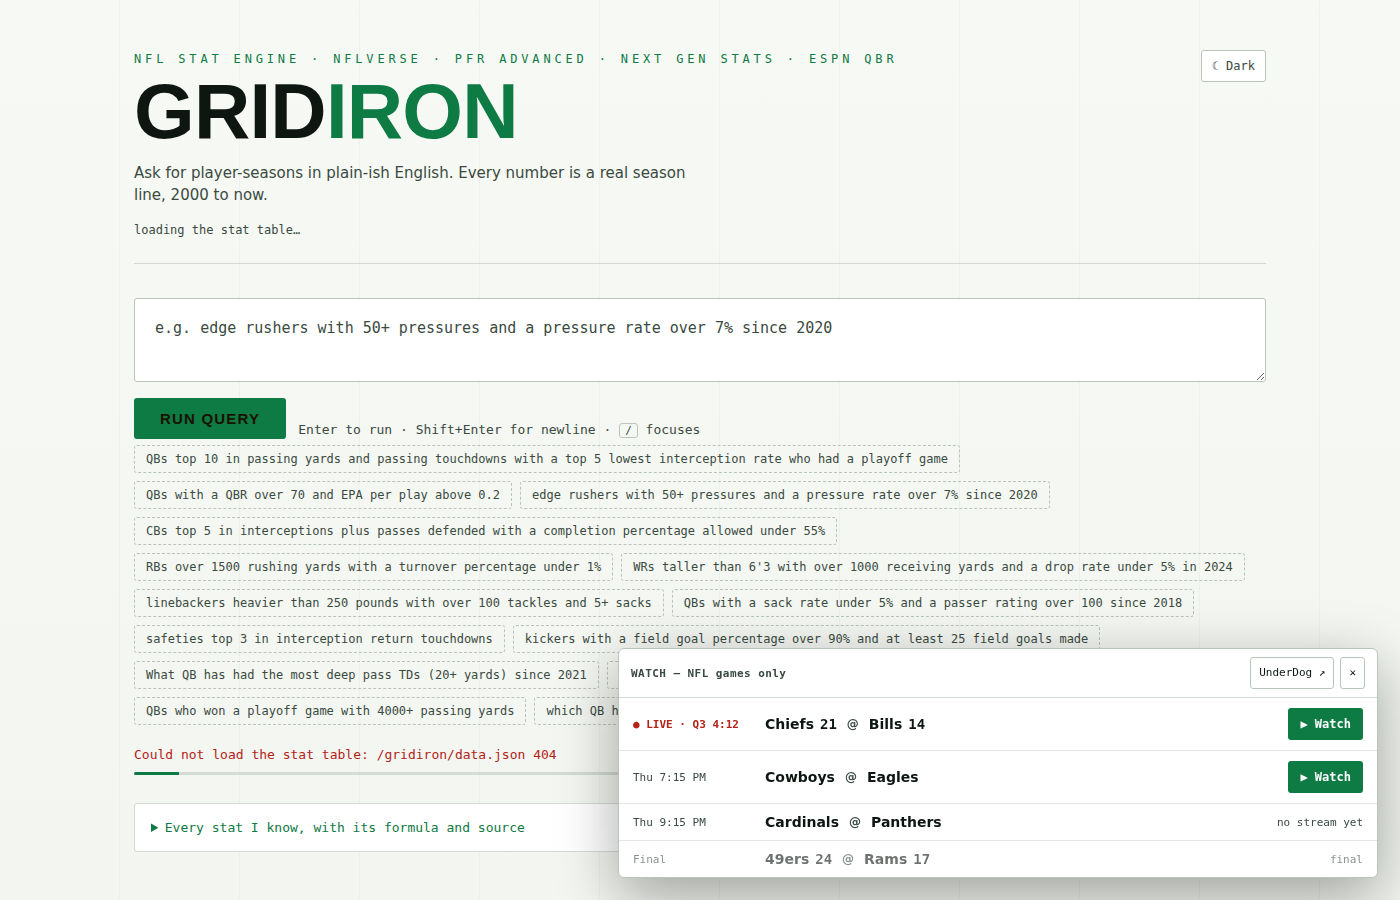
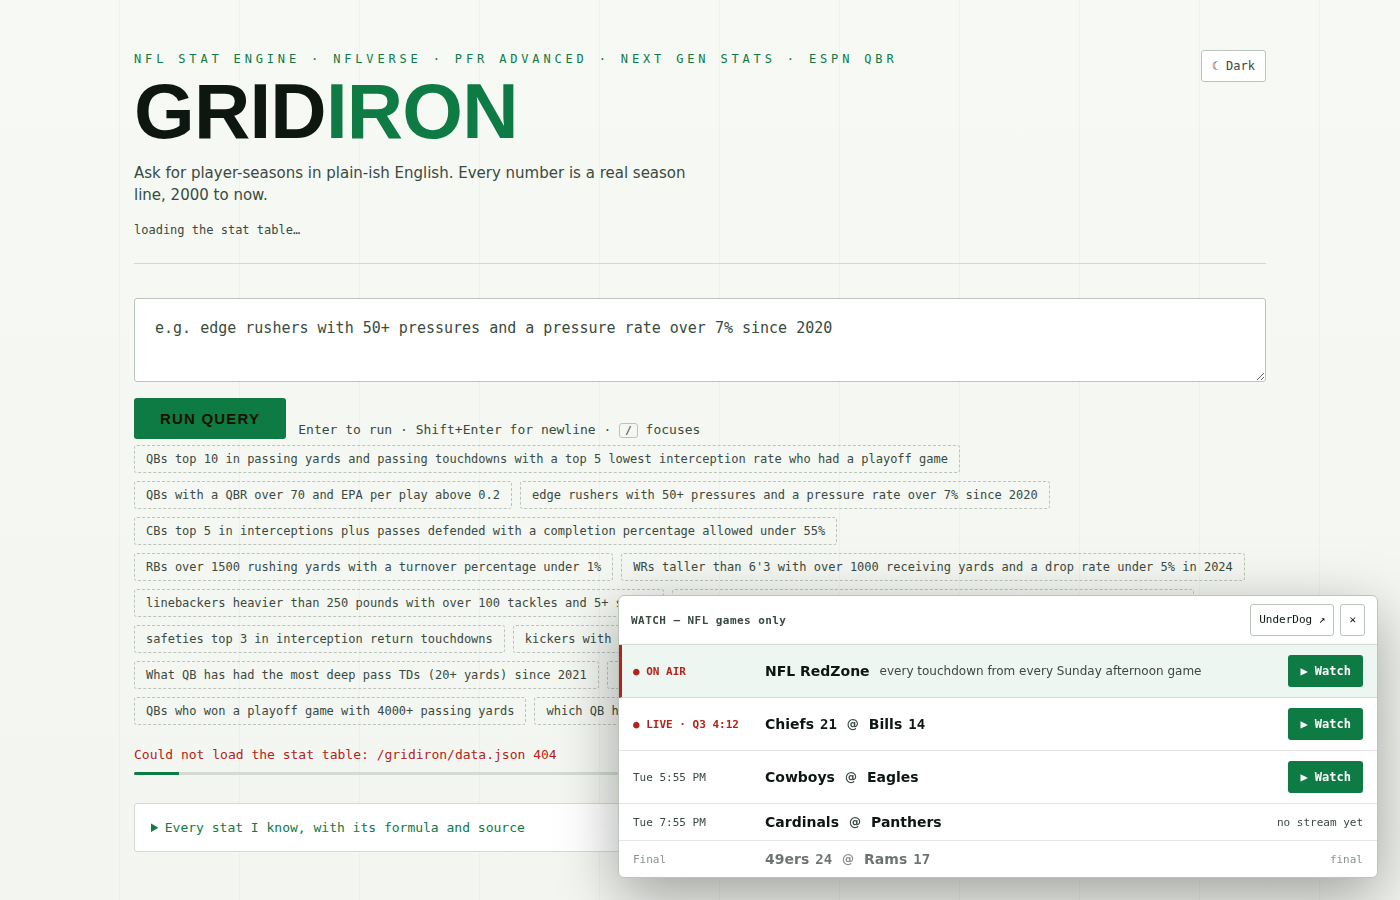
Gridiron g23: NFL RedZone in the Watch panel
RedZone is a channel, not a game, so the strict two-team matcher never
let it in. It now has its own row pinned at the top of the list, found by
name in streamed.pk's american-football and all-today lists (a college
"RedZone" is rejected). When it isn't listed, the row reads "off air".

Claude-Session: https://claude.ai/code/session_01GcsqDAHhecBud7CzfvP2gX

Changed region(s): [[0.43, 0.6533, 1.0, 0.7778], [0.4914, 0.7467, 0.5529, 0.7778]]

diff --git a/static/index.html b/static/index.html
@@ -513,6 +513,9 @@
     .wg-when { font-family: 'IBM Plex Mono', monospace; font-size: 11px; color: var(--chalk-dim) }
     .wg-in .wg-when { color: var(--danger); font-weight: 600 }
     .wg-post { opacity: .6 }
+    .wg-rz { border-left: 3px solid var(--danger); padding-left: 11px; background: var(--hover) }
+    .wg-rz .wg-when { color: var(--danger); font-weight: 600 }
+    .wg-sub { font-size: 12px; font-weight: 500; color: var(--chalk-dim) }
     .wg-teams { display: flex; align-items: center; flex-wrap: wrap; gap: 6px 10px; min-width: 0; font-size: 14px; font-weight: 600 }
     .wg-team { display: inline-flex; align-items: center; gap: 6px; white-space: nowrap }
     .wg-team img { width: 24px; height: 24px; object-fit: contain }
@@ -860,13 +863,13 @@
     <iframe id="dinoFrame" title="Dino Bowl"></iframe>
   </div>
 
-  <script src="/gridiron/engine.js?v=g22"></script>
+  <script src="/gridiron/engine.js?v=g23"></script>
   <script>
-    const DATA_URL = '/gridiron/data.json?v=g22';
+    const DATA_URL = '/gridiron/data.json?v=g23';
     // Per-game lines are a second, bigger table. It is fetched the first time a
     // question actually asks about a game, so the ordinary visitor never pays
     // for it.
-    const GAMES_URL = '/gridiron/games.json?v=g22';
+    const GAMES_URL = '/gridiron/games.json?v=g23';
     const EXAMPLES = [
       "QBs top 10 in passing yards and passing touchdowns with a top 5 lowest interception rate who had a playoff game",
       "QBs with a QBR over 70 and EPA per play above 0.2",
@@ -1628,12 +1631,13 @@
     // uses) is attached to a game only when its two sides ARE that game's two
     // teams ("Arizona Cardinals", "Cardinals", "ARI" — not "Louisville
     // Cardinals") and it starts within half a day of kickoff, so college games
-    // and shows never match.
+    // and shows never match. NFL RedZone is the one channel let in: it is not a
+    // game, so it gets its own row, pinned on top, matched by name.
     const STREAM_API = 'https://streamed.pk/api';
     const NFL_SCOREBOARD = 'https://site.api.espn.com/apis/site/v2/sports/football/nfl/scoreboard';
     const watchPanel = $('watchPanel'), watchList = $('watchList'), watchPlayer = $('watchPlayer'), watchFrame = $('watchFrame'),
       watchSources = $('watchSources'), watchTitle = $('watchTitle'), watchFull = $('watchFull'), watchBack = $('watchBack'), watchMsg = $('watchMsg');
-    const W = { games: [], loadedAt: 0, error: null, timer: 0, game: null, src: -1, streams: [], feed: -1, token: 0, realFs: false };
+    const W = { games: [], redzone: { id: 'redzone', title: 'NFL RedZone', sources: [] }, loadedAt: 0, error: null, timer: 0, game: null, src: -1, streams: [], feed: -1, token: 0, realFs: false };
     // UnderDog's rule: on phones the player is sandboxed, which stops the embeds' pop-up ads
     if (matchMedia('(pointer: coarse)').matches || /iPhone|iPad|iPod|Android/i.test(navigator.userAgent)) watchFrame.setAttribute('sandbox', 'allow-scripts allow-same-origin allow-presentation');
     function syncDock() { dinoDock.classList.toggle('hidden', dinoPanel.classList.contains('open') || !watchPanel.hidden); }
@@ -1666,30 +1670,48 @@
         return { id: ev.id, kick, state: ev.status.type.state, detail: ev.status.type.shortDetail || '', home: side(home), away: side(away), sources };
       });
     }
+    // NFL RedZone, from whichever list carries it today; never a college "red zone" show
+    function findRedZone(lists) {
+      const sources = [];
+      for (const list of lists) for (const m of Array.isArray(list) ? list : []) {
+        const t = String(m && m.title || '');
+        if (!/red\s*-?zone/i.test(t) || /\b(ncaa|ncaaf|college|cfb)\b/i.test(t)) continue;
+        for (const s of m.sources || []) if (s && s.source && s.id && !sources.some(x => x.source === s.source && x.id === s.id)) sources.push(s);
+      }
+      return { id: 'redzone', title: 'NFL RedZone', sources };
+    }
     async function loadSlate(force) {
       if (!force && W.games.length && Date.now() - W.loadedAt < 60e3) return renderSlate();
       if (!W.games.length) watchList.innerHTML = '<p class="watch-msg">Finding this week’s NFL games…</p>';
       try {
-        const [board, matches] = await Promise.all([
+        const list = (path) => fetch(STREAM_API + path, { cache: 'no-store' }).then(r => r.ok ? r.json() : []).catch(() => []);
+        const [board, matches, today] = await Promise.all([
           fetch(NFL_SCOREBOARD, { cache: 'no-store' }).then(r => { if (!r.ok) throw new Error('scoreboard ' + r.status); return r.json(); }),
-          fetch(STREAM_API + '/matches/american-football', { cache: 'no-store' }).then(r => r.ok ? r.json() : []).catch(() => [])
+          list('/matches/american-football'), list('/matches/all-today')
         ]);
         W.games = pairStreams(board.events || [], Array.isArray(matches) ? matches : []);
+        W.redzone = findRedZone([matches, today]);
         W.loadedAt = Date.now(); W.error = null;
       } catch (e) { W.error = e; }
       renderSlate();
     }
     const STATE_ORDER = { in: 0, pre: 1, post: 2 };
+    function redZoneRow() {
+      const rz = W.redzone, on = rz.sources.length > 0;
+      return `<div class="wg wg-rz"><span class="wg-when">${on ? '● ON AIR' : 'Sundays · 1–8 PM ET'}</span>`
+        + '<span class="wg-teams"><span class="wg-team">NFL RedZone</span><span class="wg-sub">every touchdown from every Sunday afternoon game</span></span>'
+        + (on ? '<button type="button" data-watch="redzone">▶ Watch</button>' : '<span class="wg-none">off air</span>') + '</div>';
+    }
     function renderSlate() {
       if (!W.games.length) {
-        watchList.innerHTML = W.error
+        watchList.innerHTML = (W.redzone.sources.length ? redZoneRow() : '') + (W.error
           ? '<p class="watch-msg">Couldn’t reach the NFL scoreboard just now. <button type="button" data-retry>Try again</button> or watch on <a href="https://underdog-nfl-media.web.app/" target="_blank" rel="noopener">UnderDog Live ↗</a></p>'
-          : '<p class="watch-msg">No NFL games on the board this week.</p>';
+          : '<p class="watch-msg">No NFL games on the board this week.</p>');
         return;
       }
       const games = W.games.slice().sort((a, b) => (STATE_ORDER[a.state] ?? 1) - (STATE_ORDER[b.state] ?? 1) || a.kick - b.kick);
       const team = (t, score) => `<span class="wg-team" title="${esc(t.name)}">${t.logo ? `<img src="${esc(t.logo)}" alt="" loading="lazy">` : ''}${esc(t.short)}${score ? ` <b>${esc(t.score)}</b>` : ''}</span>`;
-      watchList.innerHTML = games.map(g => {
+      watchList.innerHTML = redZoneRow() + games.map(g => {
         const when = g.state === 'in' ? '● LIVE · ' + g.detail : g.state === 'post' ? g.detail || 'Final'
           : new Date(g.kick).toLocaleString([], { weekday: 'short', hour: 'numeric', minute: '2-digit' });
         const act = g.sources.length ? `<button type="button" data-watch="${esc(g.id)}">▶ Watch</button>` : `<span class="wg-none">${g.state === 'post' ? 'final' : 'no stream yet'}</span>`;
@@ -1724,10 +1746,10 @@
       const token = ++W.token;
       W.game = g; W.src = -1; W.streams = []; W.feed = -1;
       watchList.hidden = true; watchPlayer.hidden = false; watchBack.hidden = false; watchFull.hidden = false;
-      watchTitle.textContent = `${g.away.short} @ ${g.home.short}` + (g.state === 'in' ? ' · LIVE' : '');
+      watchTitle.textContent = g.title || `${g.away.short} @ ${g.home.short}` + (g.state === 'in' ? ' · LIVE' : '');
       screenMessage('Loading the stream…');
       for (let i = 0; i < g.sources.length; i++) { if (await trySource(i, token)) return; if (token !== W.token) return; }
-      if (token === W.token) screenMessage('Every stream for this game is offline right now. Try again closer to kickoff, or on UnderDog Live ↗');
+      if (token === W.token) screenMessage(g.id === 'redzone' ? 'RedZone is off air right now. It runs on Sunday afternoons, 1–8 PM ET.' : 'Every stream for this game is offline right now. Try again closer to kickoff, or on UnderDog Live ↗');
     }
     function showList() {
       W.token++; W.game = null; W.streams = []; exitFull();
@@ -1773,7 +1795,7 @@
     watchList.addEventListener('click', (e) => {
       const b = e.target.closest('button'); if (!b) return;
       if (b.hasAttribute('data-retry')) return loadSlate(true);
-      const g = W.games.find(x => x.id === b.dataset.watch); if (g) playGame(g);
+      const g = b.dataset.watch === 'redzone' ? W.redzone : W.games.find(x => x.id === b.dataset.watch); if (g) playGame(g);
     });
     watchSources.addEventListener('click', async (e) => {
       const b = e.target.closest('button'); if (!b) return;

diff --git a/build_gridiron_page.py b/build_gridiron_page.py
@@ -901,12 +901,13 @@ BODY = r"""
     // uses) is attached to a game only when its two sides ARE that game's two
     // teams ("Arizona Cardinals", "Cardinals", "ARI" — not "Louisville
     // Cardinals") and it starts within half a day of kickoff, so college games
-    // and shows never match.
+    // and shows never match. NFL RedZone is the one channel let in: it is not a
+    // game, so it gets its own row, pinned on top, matched by name.
     const STREAM_API = 'https://streamed.pk/api';
     const NFL_SCOREBOARD = 'https://site.api.espn.com/apis/site/v2/sports/football/nfl/scoreboard';
     const watchPanel = $('watchPanel'), watchList = $('watchList'), watchPlayer = $('watchPlayer'), watchFrame = $('watchFrame'),
       watchSources = $('watchSources'), watchTitle = $('watchTitle'), watchFull = $('watchFull'), watchBack = $('watchBack'), watchMsg = $('watchMsg');
-    const W = { games: [], loadedAt: 0, error: null, timer: 0, game: null, src: -1, streams: [], feed: -1, token: 0, realFs: false };
+    const W = { games: [], redzone: { id: 'redzone', title: 'NFL RedZone', sources: [] }, loadedAt: 0, error: null, timer: 0, game: null, src: -1, streams: [], feed: -1, token: 0, realFs: false };
     // UnderDog's rule: on phones the player is sandboxed, which stops the embeds' pop-up ads
     if (matchMedia('(pointer: coarse)').matches || /iPhone|iPad|iPod|Android/i.test(navigator.userAgent)) watchFrame.setAttribute('sandbox', 'allow-scripts allow-same-origin allow-presentation');
     function syncDock() { dinoDock.classList.toggle('hidden', dinoPanel.classList.contains('open') || !watchPanel.hidden); }
@@ -939,30 +940,48 @@ BODY = r"""
         return { id: ev.id, kick, state: ev.status.type.state, detail: ev.status.type.shortDetail || '', home: side(home), away: side(away), sources };
       });
     }
+    // NFL RedZone, from whichever list carries it today; never a college "red zone" show
+    function findRedZone(lists) {
+      const sources = [];
+      for (const list of lists) for (const m of Array.isArray(list) ? list : []) {
+        const t = String(m && m.title || '');
+        if (!/red\s*-?zone/i.test(t) || /\b(ncaa|ncaaf|college|cfb)\b/i.test(t)) continue;
+        for (const s of m.sources || []) if (s && s.source && s.id && !sources.some(x => x.source === s.source && x.id === s.id)) sources.push(s);
+      }
+      return { id: 'redzone', title: 'NFL RedZone', sources };
+    }
     async function loadSlate(force) {
       if (!force && W.games.length && Date.now() - W.loadedAt < 60e3) return renderSlate();
       if (!W.games.length) watchList.innerHTML = '<p class="watch-msg">Finding this week’s NFL games…</p>';
       try {
-        const [board, matches] = await Promise.all([
+        const list = (path) => fetch(STREAM_API + path, { cache: 'no-store' }).then(r => r.ok ? r.json() : []).catch(() => []);
+        const [board, matches, today] = await Promise.all([
           fetch(NFL_SCOREBOARD, { cache: 'no-store' }).then(r => { if (!r.ok) throw new Error('scoreboard ' + r.status); return r.json(); }),
-          fetch(STREAM_API + '/matches/american-football', { cache: 'no-store' }).then(r => r.ok ? r.json() : []).catch(() => [])
+          list('/matches/american-football'), list('/matches/all-today')
         ]);
         W.games = pairStreams(board.events || [], Array.isArray(matches) ? matches : []);
+        W.redzone = findRedZone([matches, today]);
         W.loadedAt = Date.now(); W.error = null;
       } catch (e) { W.error = e; }
       renderSlate();
     }
     const STATE_ORDER = { in: 0, pre: 1, post: 2 };
+    function redZoneRow() {
+      const rz = W.redzone, on = rz.sources.length > 0;
+      return `<div class="wg wg-rz"><span class="wg-when">${on ? '● ON AIR' : 'Sundays · 1–8 PM ET'}</span>`
+        + '<span class="wg-teams"><span class="wg-team">NFL RedZone</span><span class="wg-sub">every touchdown from every Sunday afternoon game</span></span>'
+        + (on ? '<button type="button" data-watch="redzone">▶ Watch</button>' : '<span class="wg-none">off air</span>') + '</div>';
+    }
     function renderSlate() {
       if (!W.games.length) {
-        watchList.innerHTML = W.error
+        watchList.innerHTML = (W.redzone.sources.length ? redZoneRow() : '') + (W.error
           ? '<p class="watch-msg">Couldn’t reach the NFL scoreboard just now. <button type="button" data-retry>Try again</button> or watch on <a href="https://underdog-nfl-media.web.app/" target="_blank" rel="noopener">UnderDog Live ↗</a></p>'
-          : '<p class="watch-msg">No NFL games on the board this week.</p>';
+          : '<p class="watch-msg">No NFL games on the board this week.</p>');
         return;
       }
       const games = W.games.slice().sort((a, b) => (STATE_ORDER[a.state] ?? 1) - (STATE_ORDER[b.state] ?? 1) || a.kick - b.kick);
       const team = (t, score) => `<span class="wg-team" title="${esc(t.name)}">${t.logo ? `<img src="${esc(t.logo)}" alt="" loading="lazy">` : ''}${esc(t.short)}${score ? ` <b>${esc(t.score)}</b>` : ''}</span>`;
-      watchList.innerHTML = games.map(g => {
+      watchList.innerHTML = redZoneRow() + games.map(g => {
         const when = g.state === 'in' ? '● LIVE · ' + g.detail : g.state === 'post' ? g.detail || 'Final'
           : new Date(g.kick).toLocaleString([], { weekday: 'short', hour: 'numeric', minute: '2-digit' });
         const act = g.sources.length ? `<button type="button" data-watch="${esc(g.id)}">▶ Watch</button>` : `<span class="wg-none">${g.state === 'post' ? 'final' : 'no stream yet'}</span>`;
@@ -997,10 +1016,10 @@ BODY = r"""
       const token = ++W.token;
       W.game = g; W.src = -1; W.streams = []; W.feed = -1;
       watchList.hidden = true; watchPlayer.hidden = false; watchBack.hidden = false; watchFull.hidden = false;
-      watchTitle.textContent = `${g.away.short} @ ${g.home.short}` + (g.state === 'in' ? ' · LIVE' : '');
+      watchTitle.textContent = g.title || `${g.away.short} @ ${g.home.short}` + (g.state === 'in' ? ' · LIVE' : '');
       screenMessage('Loading the stream…');
       for (let i = 0; i < g.sources.length; i++) { if (await trySource(i, token)) return; if (token !== W.token) return; }
-      if (token === W.token) screenMessage('Every stream for this game is offline right now. Try again closer to kickoff, or on UnderDog Live ↗');
+      if (token === W.token) screenMessage(g.id === 'redzone' ? 'RedZone is off air right now. It runs on Sunday afternoons, 1–8 PM ET.' : 'Every stream for this game is offline right now. Try again closer to kickoff, or on UnderDog Live ↗');
     }
     function showList() {
       W.token++; W.game = null; W.streams = []; exitFull();
@@ -1046,7 +1065,7 @@ BODY = r"""
     watchList.addEventListener('click', (e) => {
       const b = e.target.closest('button'); if (!b) return;
       if (b.hasAttribute('data-retry')) return loadSlate(true);
-      const g = W.games.find(x => x.id === b.dataset.watch); if (g) playGame(g);
+      const g = b.dataset.watch === 'redzone' ? W.redzone : W.games.find(x => x.id === b.dataset.watch); if (g) playGame(g);
     });
     watchSources.addEventListener('click', async (e) => {
       const b = e.target.closest('button'); if (!b) return;
@@ -1117,6 +1136,9 @@ EXTRA_CSS = """
     .wg-when { font-family: 'IBM Plex Mono', monospace; font-size: 11px; color: var(--chalk-dim) }
     .wg-in .wg-when { color: var(--danger); font-weight: 600 }
     .wg-post { opacity: .6 }
+    .wg-rz { border-left: 3px solid var(--danger); padding-left: 11px; background: var(--hover) }
+    .wg-rz .wg-when { color: var(--danger); font-weight: 600 }
+    .wg-sub { font-size: 12px; font-weight: 500; color: var(--chalk-dim) }
     .wg-teams { display: flex; align-items: center; flex-wrap: wrap; gap: 6px 10px; min-width: 0; font-size: 14px; font-weight: 600 }
     .wg-team { display: inline-flex; align-items: center; gap: 6px; white-space: nowrap }
     .wg-team img { width: 24px; height: 24px; object-fit: contain }

diff --git a/README.md b/README.md
@@ -190,6 +190,10 @@ full site with chat and picks.
   "NFL PrimeTime" never match.
 - Only `https:` embed URLs go into the player. On phones the player is sandboxed, as it is
   on UnderDog, to block the embeds' pop-up ads.
+- **NFL RedZone** (g23) is pinned at the top of the list. It is a channel, not a game, so it is
+  matched by name ("NFL RedZone") in streamed.pk's `american-football` and `all-today` lists.
+  A college "RedZone" never matches. When it isn't listed, the row reads "off air" (it runs
+  Sunday afternoons, 1–8 PM ET).
 - Opening Watch minimises Dino Bowl, and opening Dino Bowl closes Watch. Closing Watch
   unloads the stream. The dock hides while either panel is open.
 
